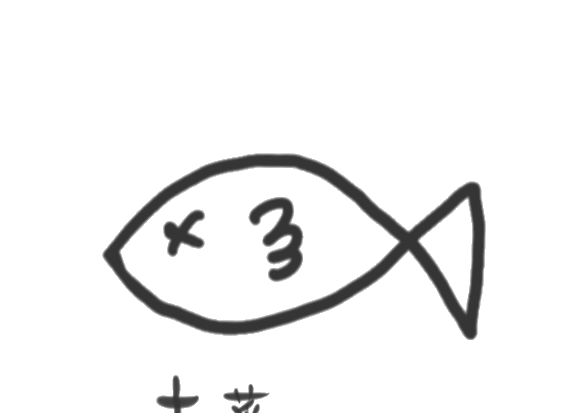
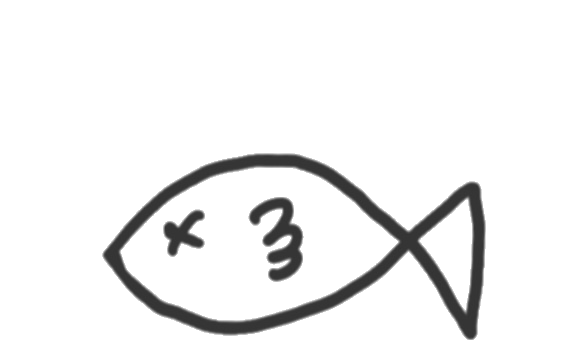
カテゴリ画像の不要な文字を削除＆おばあちゃんアイコン中央配置
- shusai.png, tsukemono.png の下部に残っていた文字をトリミング
- about-block__deco-img を中央配置に修正

Changed region(s): [[0.1777, 0.3704, 0.8589, 1.0]]

diff --git a/styles.css b/styles.css
@@ -1335,6 +1335,8 @@ input, textarea, select {
   width: 200px;
   height: 200px;
   object-fit: contain;
+  display: block;
+  margin: 0 auto;
 }
 
 .about-block__title {
